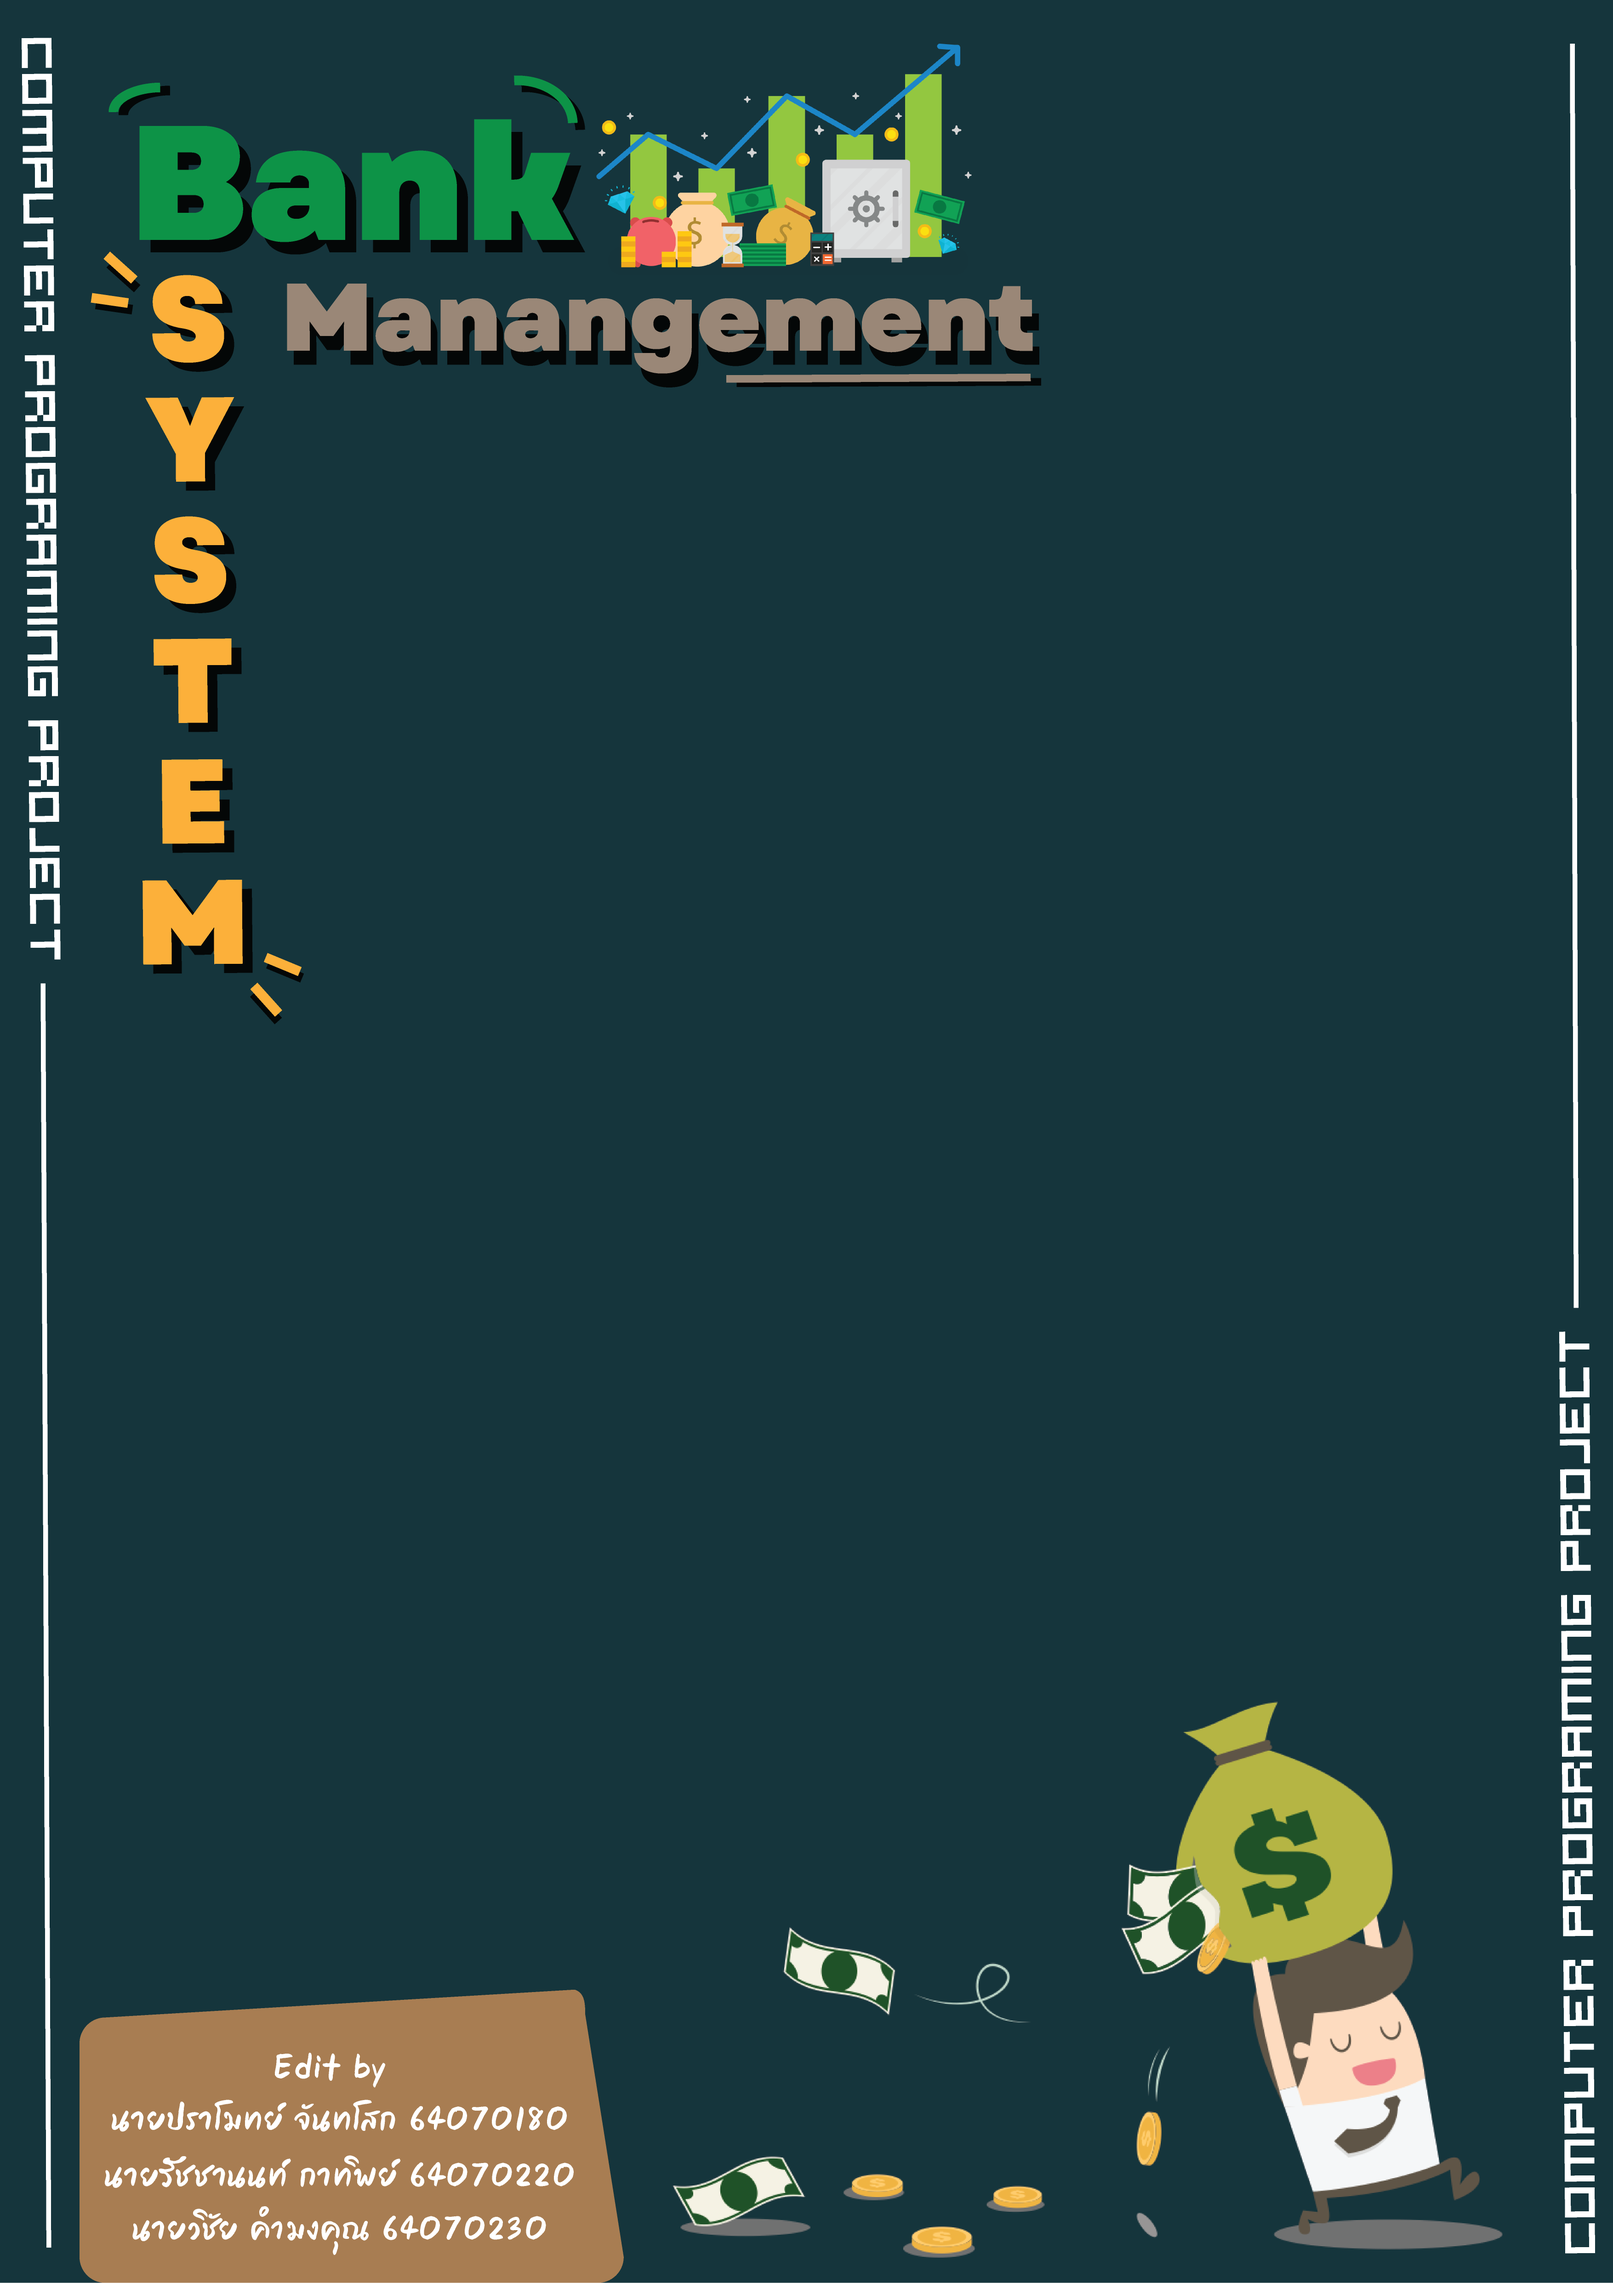
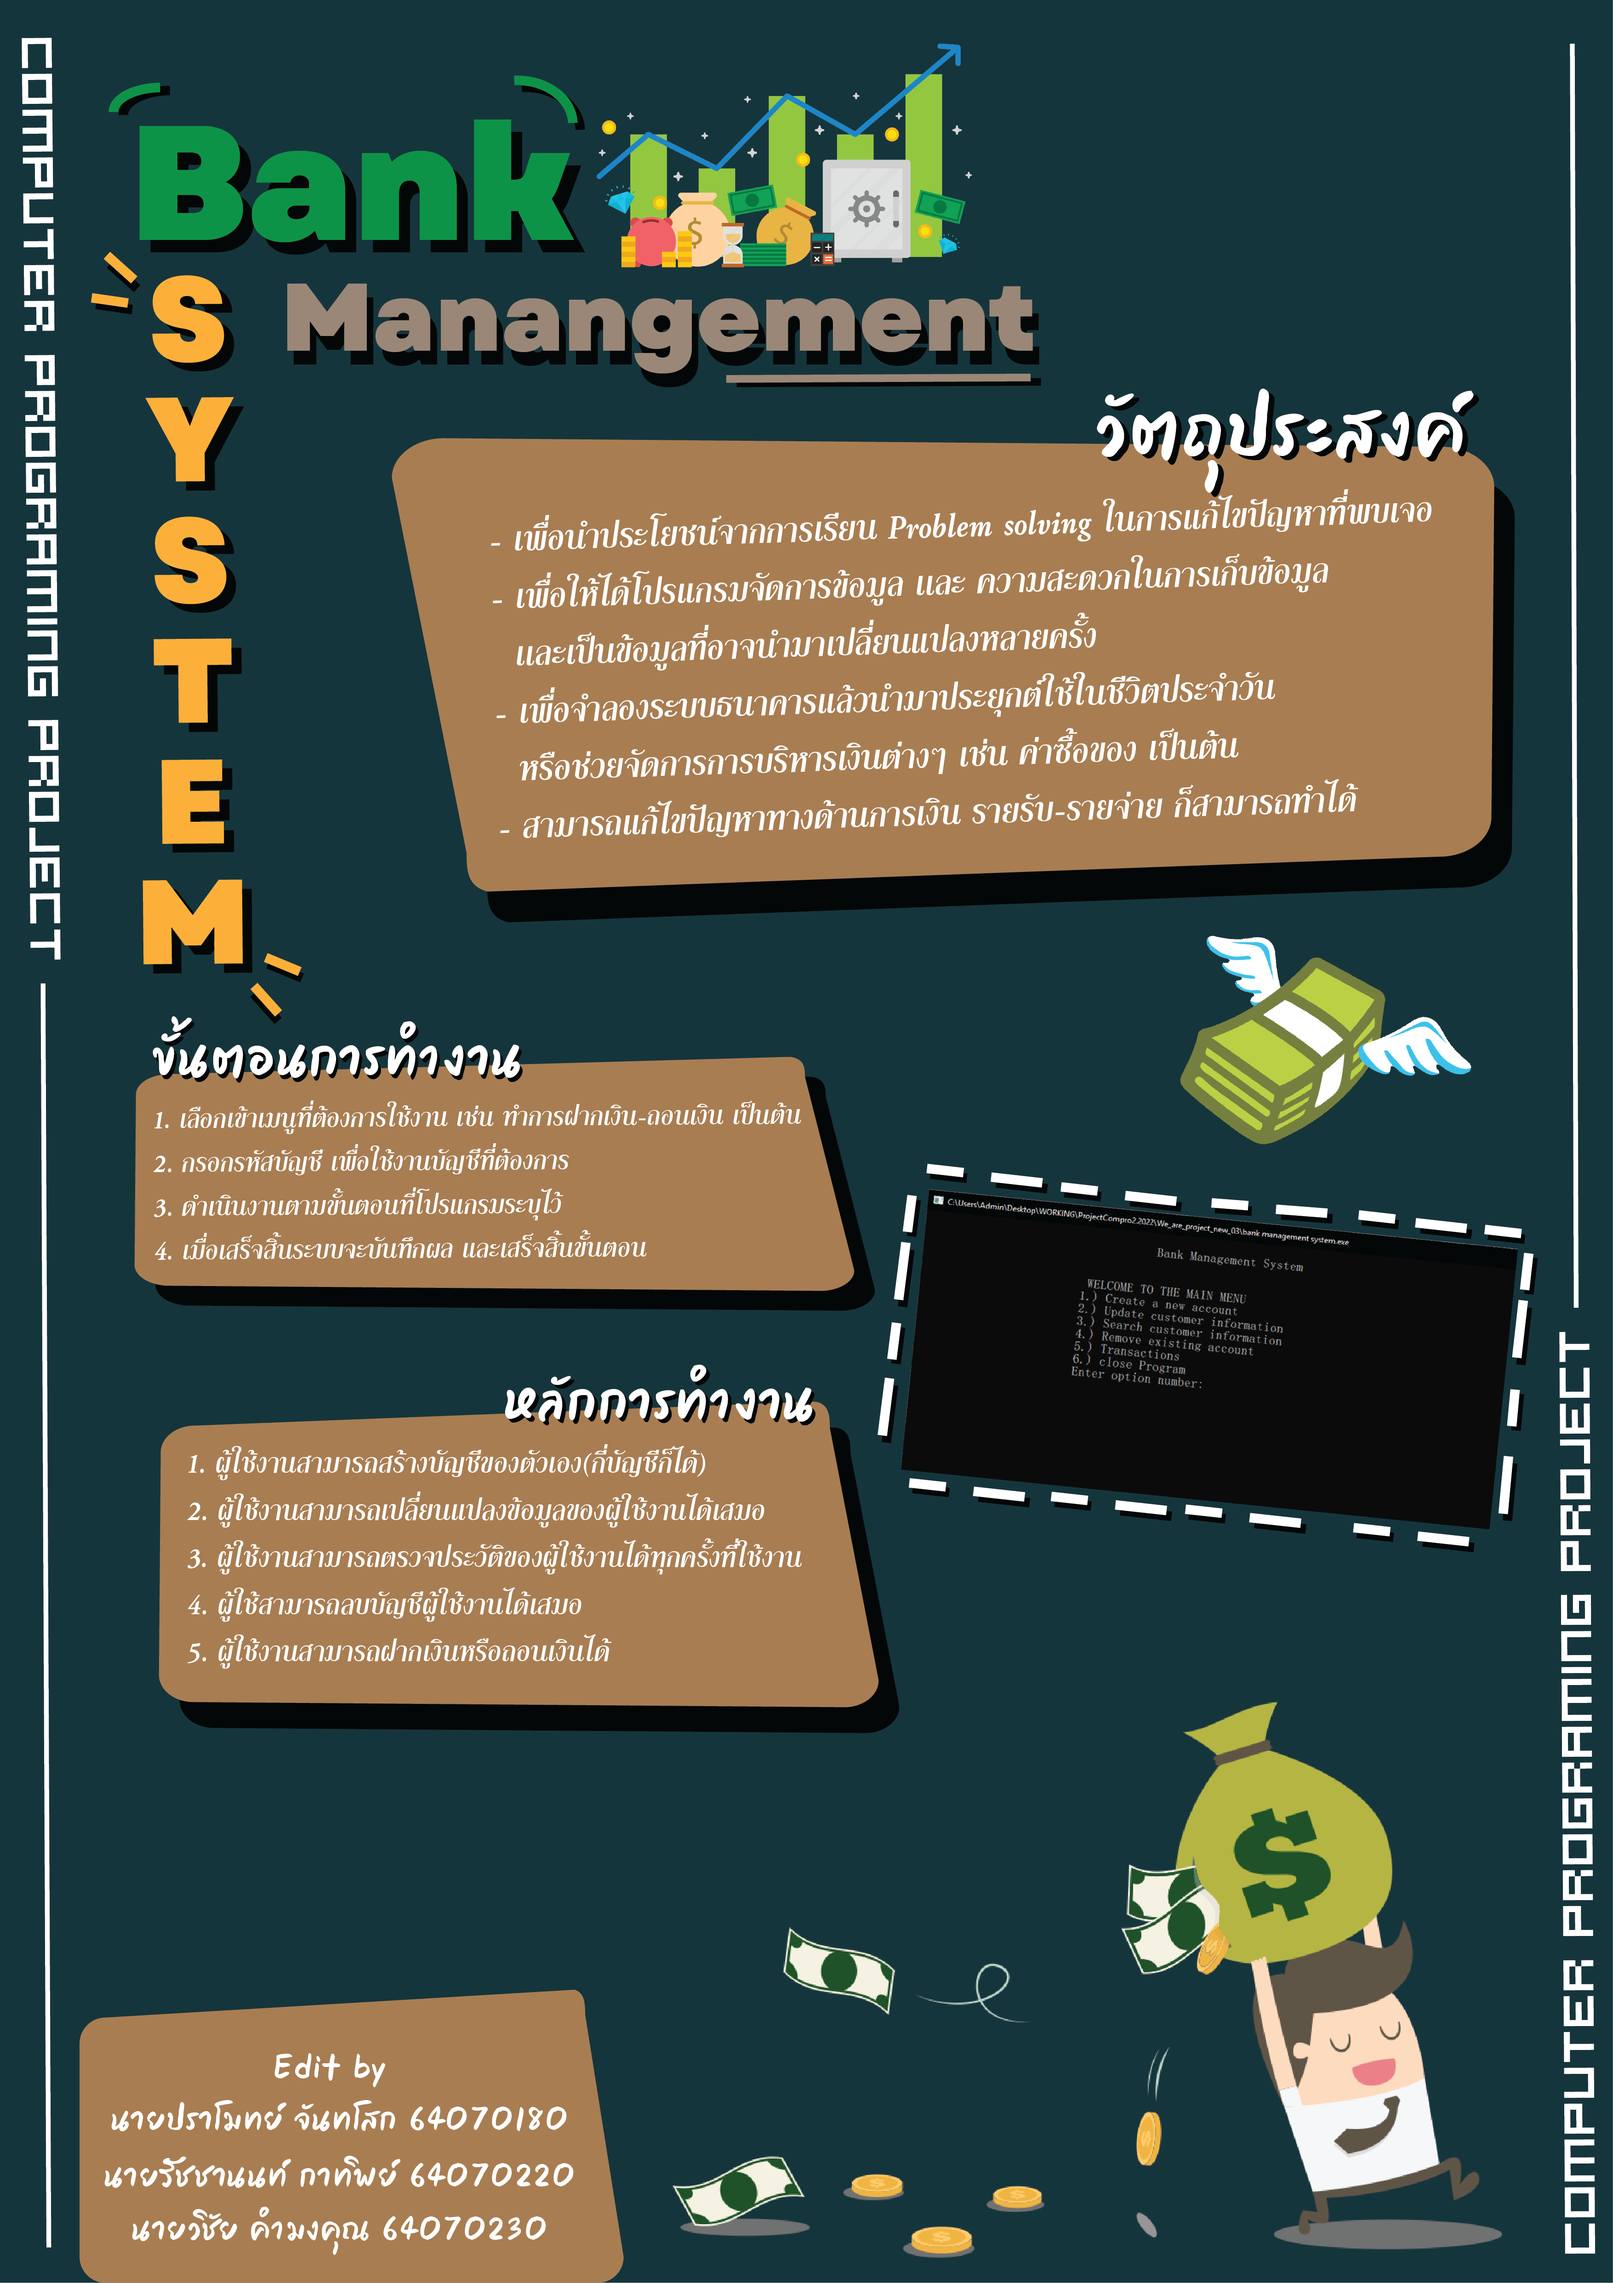
add file

diff --git a/README.md b/README.md
@@ -2,18 +2,22 @@
 > Project Computer Programming
 # บทคัดย่อ
 > [บทคัดย่อ](https://docs.google.com/document/d/1yAhsaE5xrhK6O9AWhR-B6Jkuzf1IUlZ4Hnu-8HcaP2g/edit?usp=sharing)
-# ที่มา
-  > ...
+# ที่มา และความสำคัญ
+  > เนื่องจากในปัจจุบันระบบใช้จ่ายต่างๆ หรือระบบการเงินต่างๆนั้นเป็นแบบระบบออนไลน์ และต้องการความสะดวกสบายในการทำธุระทางด้านการเงินมากยิ่งขึ้น และยังเป็นการลดความเสี่ยงที่จะทำให้ติดโรคโควิด 19 เพราะผู้คนไม่ต้องไปธนาคารเพื่อทำธุระด้านการเงินให้เสี่ยงโรคโควิด 19 และไม่เสียเวลาการเดินทาง เพราะกลุ่มของพวกเรานั้นได้ทำระบบ Bank Management ซึ่งเป็นระบบที่คล้ายกับระบบธนาคาร ซึ่งมีความง่ายต่อการใช้งาน ไม่ว่าจะเป็นการฝากเงินและถอนเงิน หรือการทำบัญชีต่าง ๆ และยังสามารถนำไปต่อยอด เพื่อความง่ายต่อการใช้งานได้มากยิ่งขึ้น
 # วัตถุประสงค์
 > * เพื่อนำประโยชน์จากการเรียน Problem solving ในการแก้ไขปัญหาที่พบเจอ 
 > * เพื่อให้ได้โปรแกรมจัดการข้อมูล เเละ ความสะดวกในการเก็บข้อมูลเเละเป็นข้อมูลที่อาจนำมาเปลี่ยนแปลงหลายครั้ง 
 > * เพื่อจำลองระบบธนาคารแล้วนำมาประยุกต์ใช้ในชีวิตประจำวัน หรือช่วยจัดการการบริหารเงินต่างๆ เช่น ค่าซื้อของ เป็นต้น
 > * สามารถแก้ไขปัญหาทางด้านการเงิน รายรับ-รายจ่าย ก็สามารถทำได้
 # ประโยชน์ที่ได้รับ
-> * ...
-> * ...
+> * ได้นำความรู้ที่เรียนจากวิชา Computer Programming  มาประยุกต์ใช้ทำในการพัฒนาการเขียนระบบ ที่ใช้ในการจัดการข้อมูลในธนาคาร
+> * ได้หาความรู้เพื่มเติมและความรู้ใหม่ๆ เพื่อนำมาใช้ในการทำ Bank Management
+> * ได้แก้ไขปัญหาต่างๆ เช่น Bugที่พบในระบบ และนำมาเป็นประสบการณ์ในอนาคต
+> * ช่วยเหลือปัญหาในชีวิตประจำวันในการบริหารเงิน
 # โปรแกรม และภาษาที่ใช้
-> * ...
+> * Visual Studio Code
+> * Command Prompt
+> * C programing
 # Video
 > [Bank Management System | Computer Programming Project](https://youtu.be/dQw4w9WgXcQ)
 # โปสเตอร์
